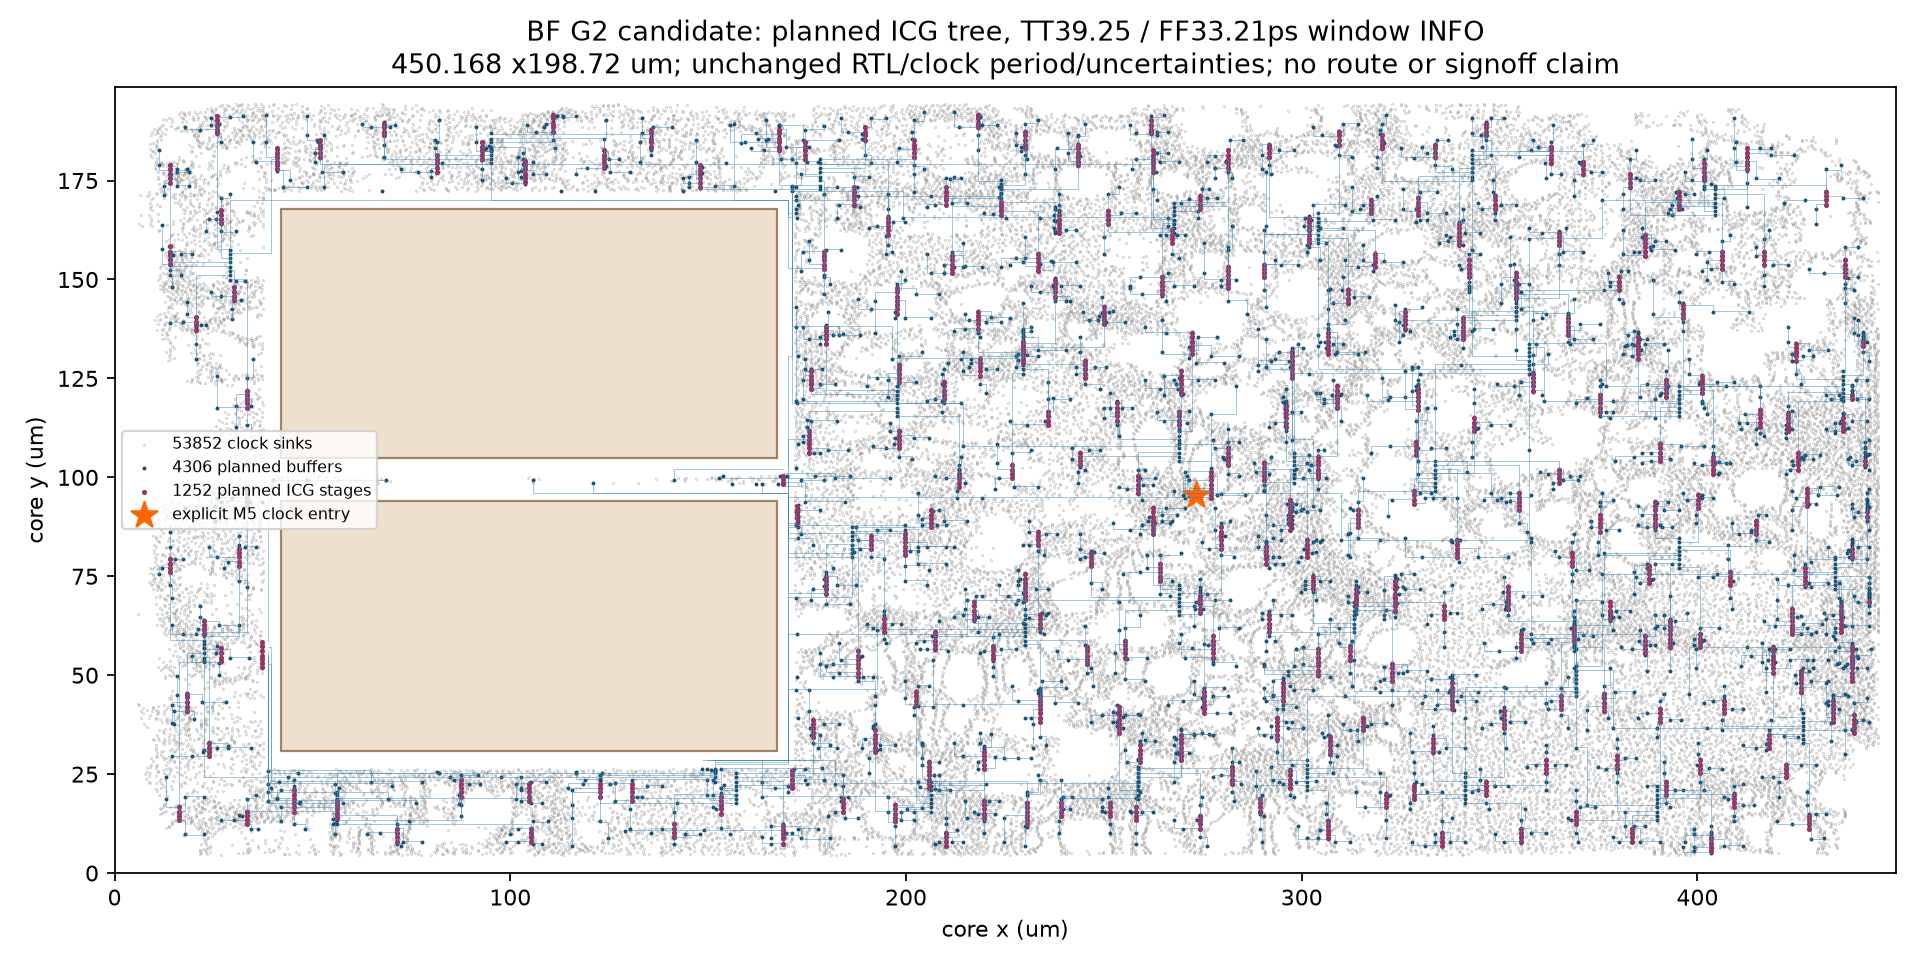
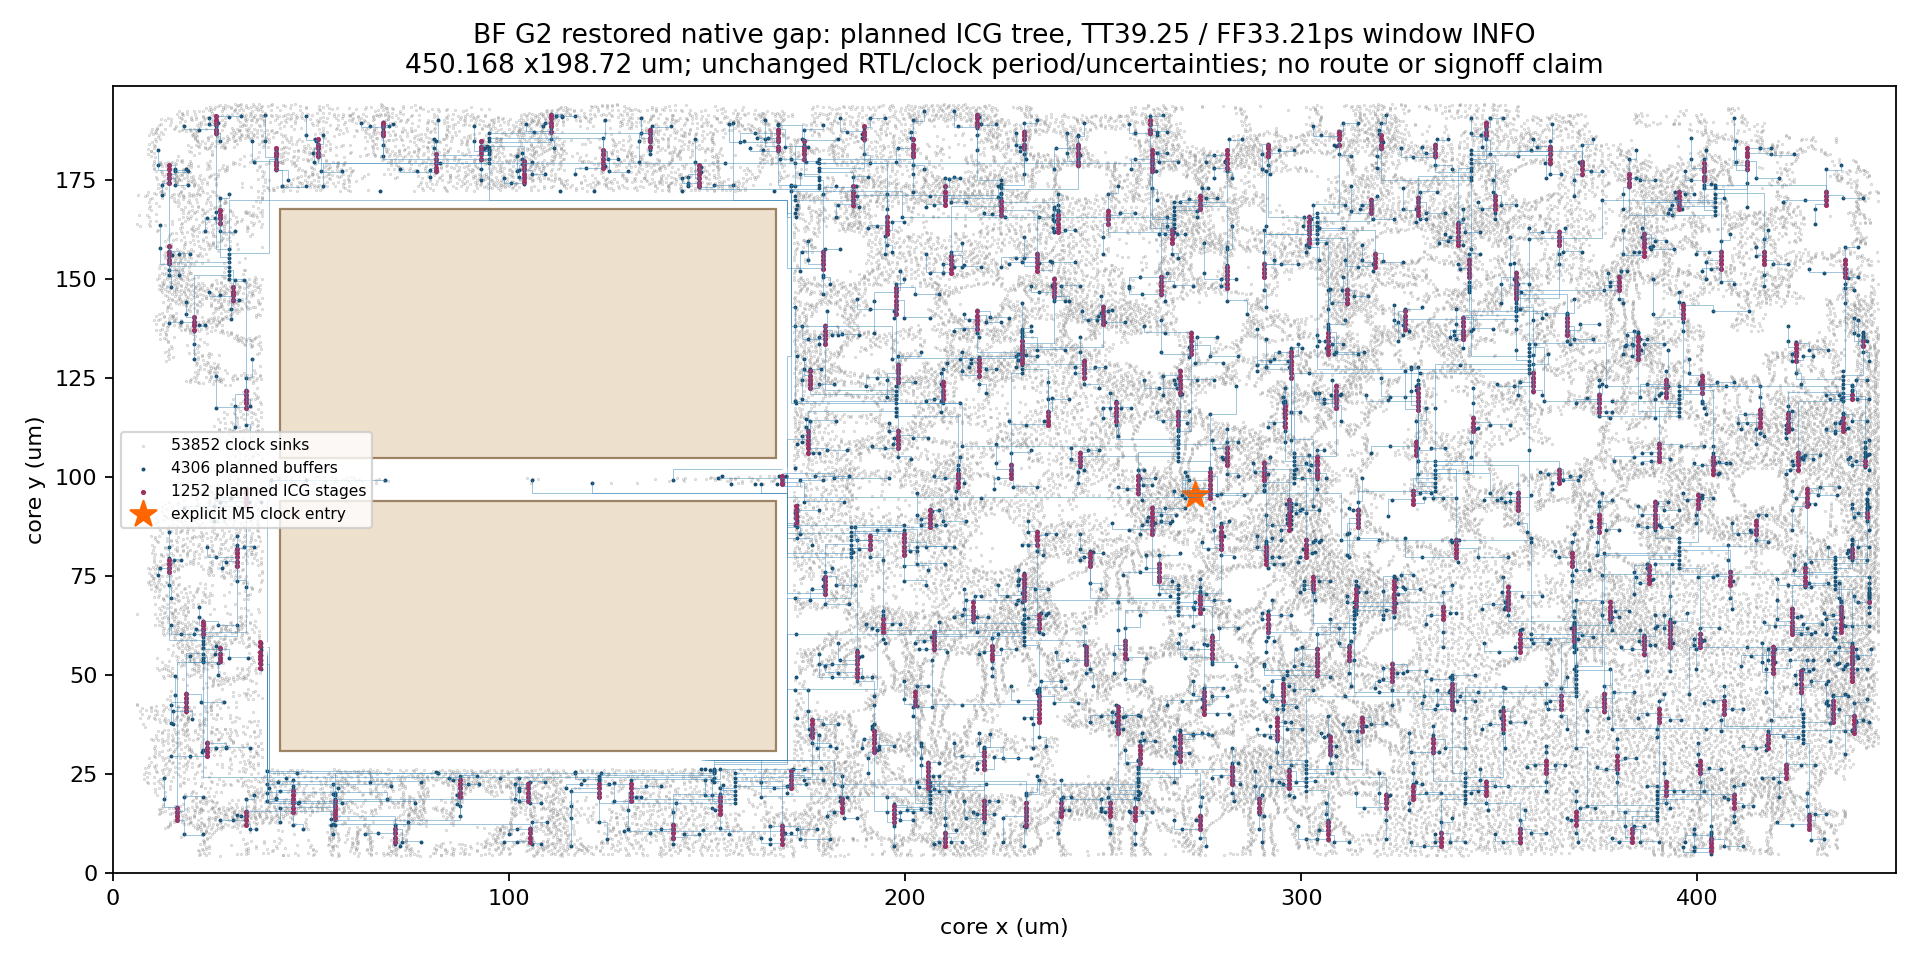
Carry approved BF G2 native ROM gap into trial recipe

diff --git a/results/bf_g2_trial_1029/render.py b/results/bf_g2_trial_1029/render.py
@@ -14,4 +14,4 @@ for l in open(R/'input/sites.txt'):
 ns=s['core_tree']['nodes'];gs=s['core_tree']['gates'];ax.scatter([p['xy_um'][0] for p in ns],[p['xy_um'][1] for p in ns],s=.6,c='#174e72',label=f'{len(ns)} planned buffers')
 ax.scatter([p['xy_um'][0] for p in gs],[p['xy_um'][1] for p in gs],s=1.7,c='#9e3063',label=f'{len(gs)} planned ICG stages')
 ax.scatter([273.228],[95.58],marker='*',s=150,c='#ff6600',label='explicit M5 clock entry')
-ax.set_xlim(0,450.168);ax.set_ylim(0,198.72);ax.set_aspect('equal');ax.set_xlabel('core x (um)');ax.set_ylabel('core y (um)');ax.legend(fontsize=7);ax.set_title('BF G2 candidate: planned ICG tree, TT39.25 / FF33.21ps window INFO\n450.168 x198.72 um; unchanged RTL/clock period/uncertainties; no route or signoff claim');fig.tight_layout();fig.savefig(R/'review/bf_icg_g2.png',dpi=160)
+ax.set_xlim(0,450.168);ax.set_ylim(0,198.72);ax.set_aspect('equal');ax.set_xlabel('core x (um)');ax.set_ylabel('core y (um)');ax.legend(fontsize=7);ax.set_title('BF G2 restored native gap: planned ICG tree, TT39.25 / FF33.21ps window INFO\n450.168 x198.72 um; unchanged RTL/clock period/uncertainties; no route or signoff claim');fig.tight_layout();fig.savefig(R/'review/bf_icg_g2.png',dpi=160)

diff --git a/results/bf_g2_trial_1029/prepare_candidate.py b/results/bf_g2_trial_1029/prepare_candidate.py
@@ -15,3 +15,11 @@ text=text[:block.start()]+b+text[block.end():]
 lef=R/'input/ot_v41_bf_col_centroid.lef';lef.write_text(text);q['lef']=str(lef.relative_to(root));pins=R/'input/ot_v41_bf_col_centroid_pins.json';pins.write_text(json.dumps(q,indent=1))
 for c in pcs:c.update(lef=str(lef.relative_to(root)),pins_file='../../../'+str(pins.relative_to(root)))
 (R/'input/plan_centroid.json').write_text(json.dumps(p));print('CENTROID_EXPLICIT_CLOCK',layer,x,y,w,h)
+
+# This trial was planned and reviewed against the wider two-ROM gap. Carry it
+# explicitly into generation; the shared default recipe has a different gap.
+recipes=json.load(open(s81/'cores/legacy/recipes.json'))
+recipe=recipes['ot_v41_bf_col']
+recipe['macro_sites']={'ot_rom_4096x274_m8':[[42.12,30.960,'R180'],[42.12,104.784,'MY']]}
+recipe['_why']='BF G2 trial only: restore the exact approved native 10.872um ROM gap; all5558 planned clock cells remain unchanged.'
+(R/'input/recipes_g2.json').write_text(json.dumps({'ot_v41_bf_col':recipe},indent=1)+'\n')

diff --git a/results/bf_g2_trial_1029/README.md b/results/bf_g2_trial_1029/README.md
@@ -1,3 +1,31 @@
+BF G2 actual native-gap repair (CODEX 2026-10-29)
+
+The original generated kit used the shared recipe gap8.664um while the approved
+G2 plan/site census used10.872um. Native first trial stopped before GPL on
+mp_ck_T00432_r0 versus a fresh TAP body. No CTS/GRT/DRT occurred.
+This candidate explicitly carries the approved macro coordinates in
+input/recipes_g2.json: lower ROM30.960/R180, upper104.784/MY.
+Use --recipes results/bf_g2_trial_1029/input/recipes_g2.json when regenerating.
+Shared recipes and RTL remain unchanged.
+
+Actual restored-gap floorplan unit2819609 completed. Native export3063045
+exactly matches EVERY original FIXED6913/ROW1236/PG204/MASTER16 record,
+no blockages. Repack3072819 produces all5558clock placements unchanged,
+max raw displacement3.591um, original modeled TT39.25/FF33.21 unchanged.
+The exact original layout is restored, rather than moving clocks around the
+wrong macro gap. Native evidence is retained at intel1 codex-flow-bf-gap-0255
+and codex-ci-index-0255; native_gap_receipt.json records the census comparison.
+
+Fresh rendered review was viewed: restored two-ROM gap and all5558 clock
+placements match the approved geometry; buffers/gates occupy surrounding rows,
+centroid M5 entry273.228/95.58 unchanged. PLACE/CTS/GRT diagnostic may resume. Trial remains
+DIAGNOSTIC ONLY, ROOT/COORD02:48 defers RAW/postclone LEC pending signoff;
+no DRT or SIGNED. Shared occupancy source03c0925ae+35f5fa123 is independently
+qualified against actual failed IOP checkpoint and preserves its exact TAP
+collision; refresh core_infra_impl.tcl from those sources before continuation.
+
+Previous candidate packet follows:
+
 BF planned ICG G2 candidate (ROOT approved design-target INFO trial)
 
 Frozen previous actual plan:53852 sinks;4306 buffers+1252 ICG stages (40 originals,
